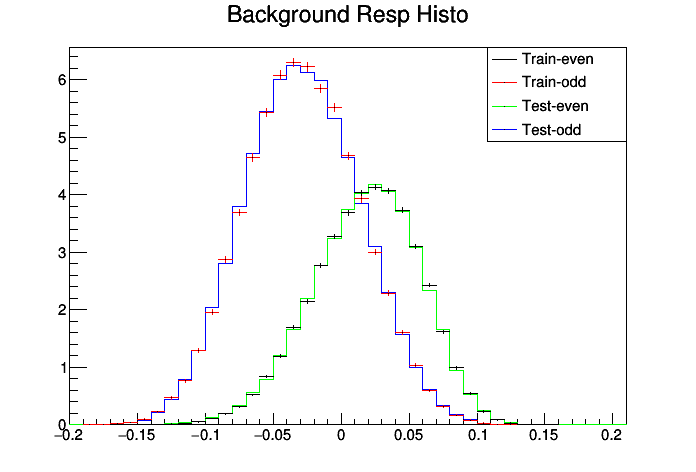
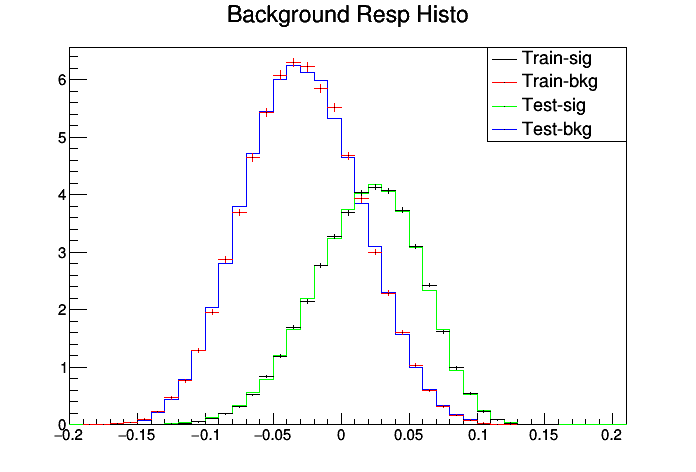
sfd

Changed region(s): [[0.7543, 0.089, 0.875, 0.2966]]

diff --git a/hist_com_plot.c b/hist_com_plot.c
@@ -8,10 +8,6 @@ void hist_com_plot(){
 	TH1D* test_S=(TH1D*) file1->Get("SignalValuesTest");
 	TH1D* test_B=(TH1D*) file1->Get("BackgroundValuesTest");
 	TH1F* powheg=(TH1F*)file2->Get("MVA_BDT_powheg");	
-//	train_S->SetBins(50,-0.2,0.2);
-//	train_B->SetBins(50,-0.2,0.2);
-//	test_S->SetBins(50,-0.2,0.2);
-//	test_B->SetBins(50,-0.2,0.2);
 
 	train_S->SetLineColor(1);
 	train_B->SetLineColor(2);
@@ -32,10 +28,10 @@ void hist_com_plot(){
 
 	TLegend leg(.7,.7,.9,.9);
 	leg.SetFillColor(0);
-	leg.AddEntry(train_S,"Train-even");
-	leg.AddEntry(train_B,"Train-odd");
-	leg.AddEntry(test_S,"Test-even");
-	leg.AddEntry(test_B,"Test-odd");
+	leg.AddEntry(train_S,"Train-sig");
+	leg.AddEntry(train_B,"Train-bkg");
+	leg.AddEntry(test_S,"Test-sig");
+	leg.AddEntry(test_B,"Test-bkg");
 	//leg.AddEntry(powheg,"apply-powheg");
 	leg.DrawClone("Same");
 
